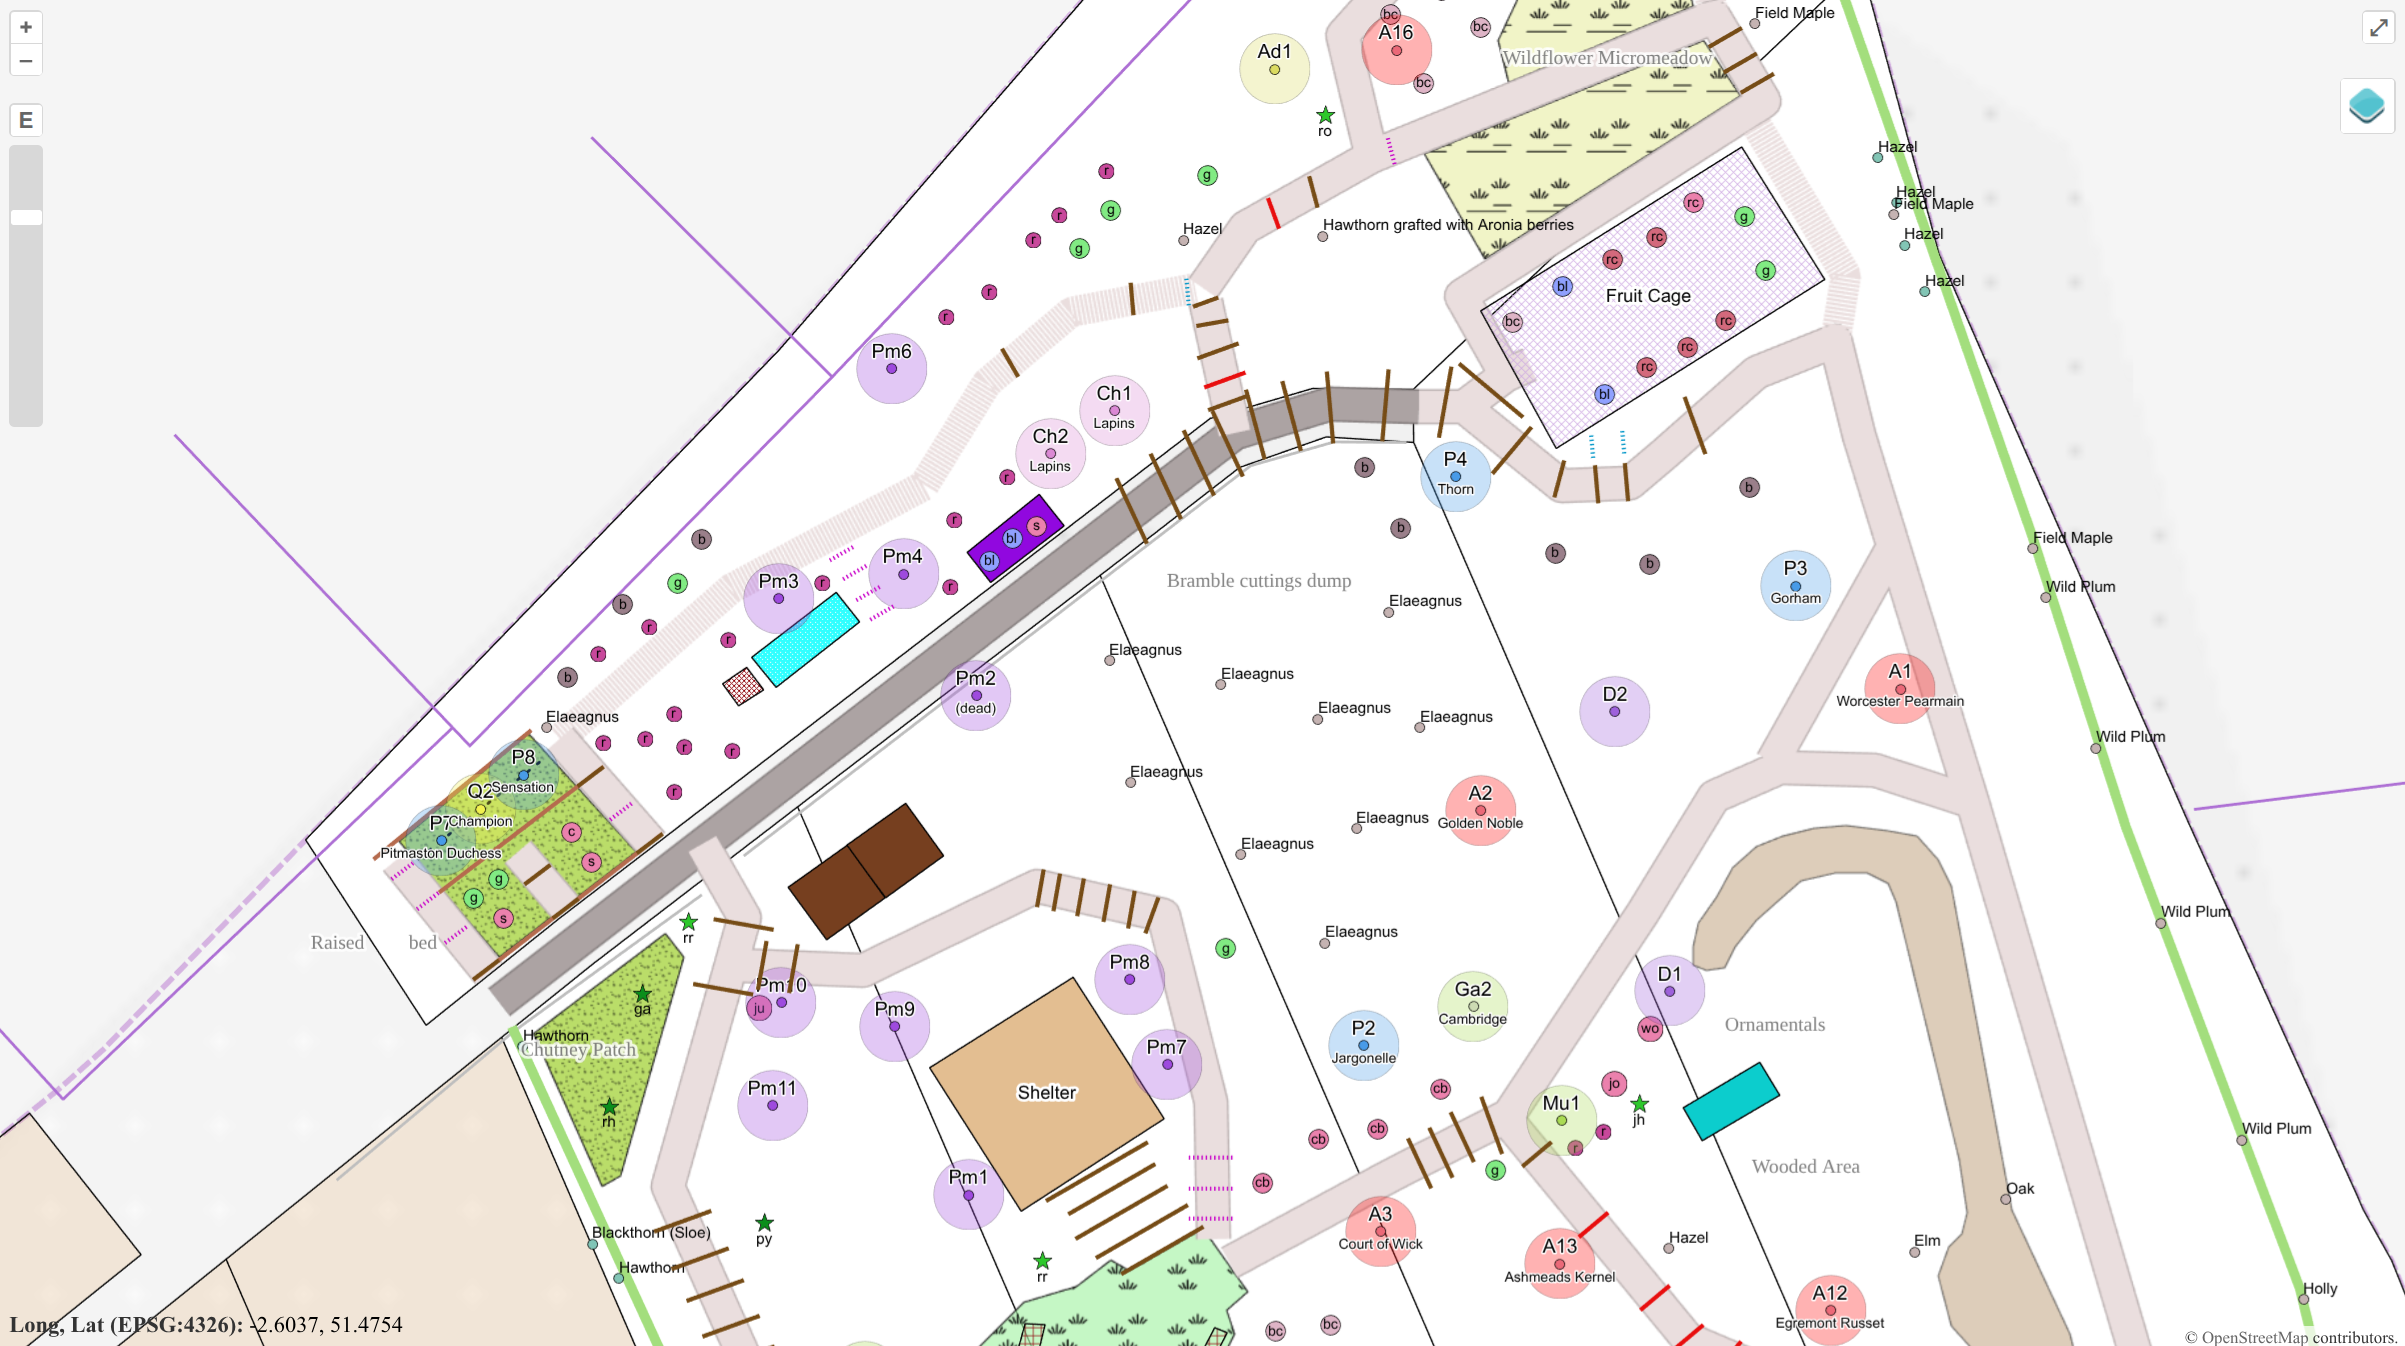
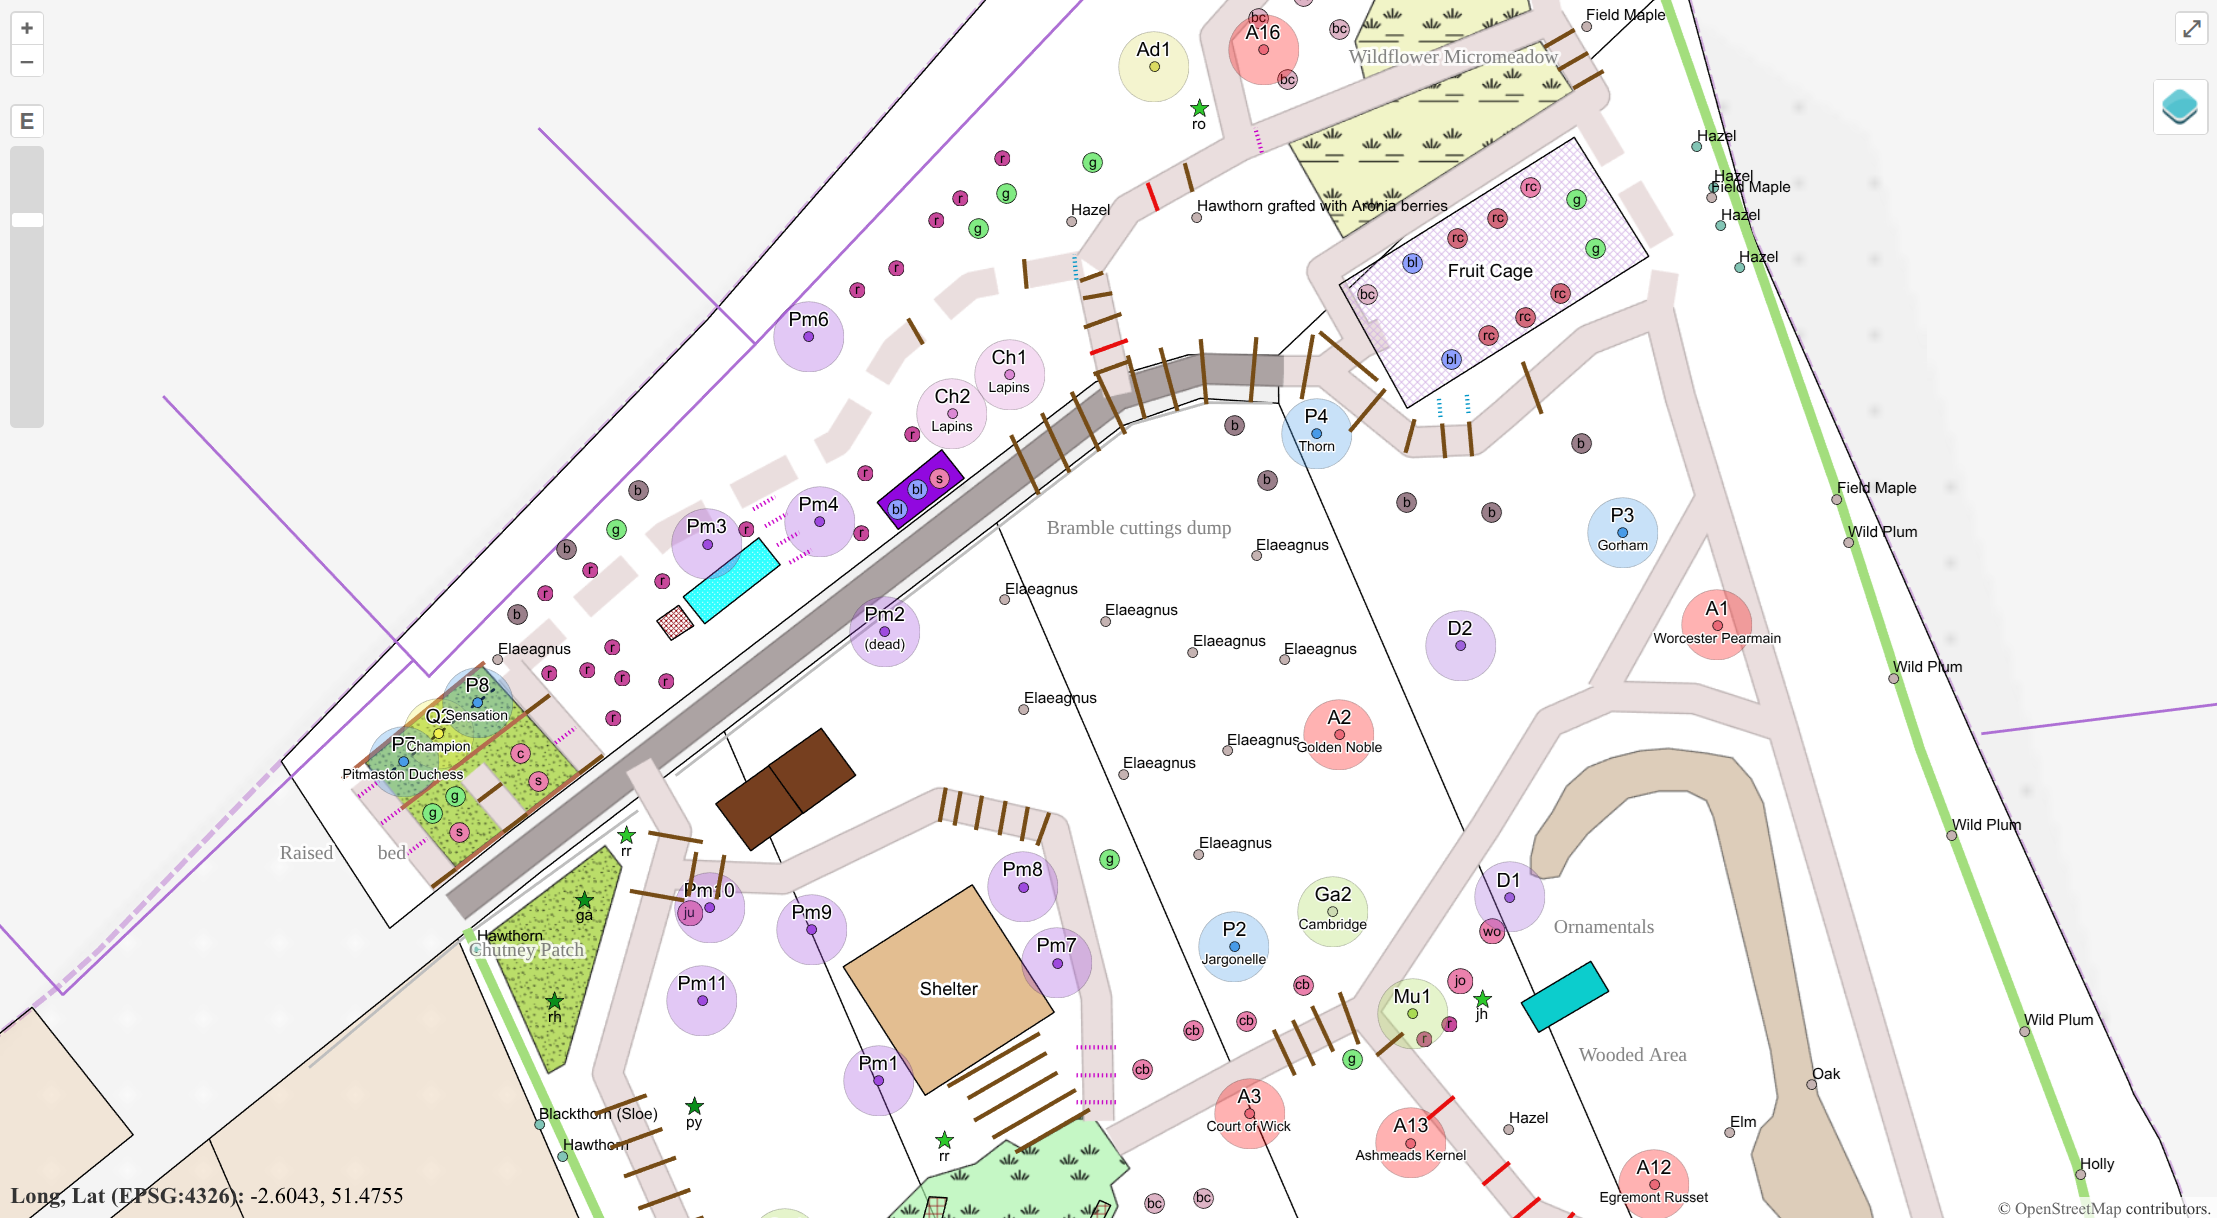
Updated after today's bugfix of SLDReader that removes one of line dasharray limitations.

diff --git a/examples/orchard site map/README.md b/examples/orchard site map/README.md
@@ -24,11 +24,11 @@ Source QGIS Project and source data files in folder [examples/orchard site map/]
 
 QGIS canvas screenshot:
 
-![QGIS canvas screenshot - Murtry Viaduct](screenshots/QGIS1.png)
+![QGIS canvas screenshot](screenshots/QGIS1.png)
 
 Web map screenshot:
 
-![web map screenshot - Murtry Viaduct](screenshots/webmap1.png)
+![web map screenshot](screenshots/webmap1.png)
 
 Key limitations of Web Map Exporter displayed in this example:
 - Layer 'Area type':
@@ -39,8 +39,9 @@ WARNING: replacing QGIS local SVG path with GitHub version in 'Area type.sld'
 - Layer 'Fruit trees':
     - crowns (the outer circles) different in size for 2 reasons: web map do not scale to map units as SLD will not allow mixing of units of measurement (map units and mm); data-defined values not exported from QGIS
     - label callouts (on far left) not supported in web map
+- Layer 'Steps', rule 'proposed':
+    - dotted line spacing too close due to QGIS bug that doesn't scale "stroke-dasharray" by "stroke-width" for predefined dash patterns
 - Layer 'Footpaths':
-    - dashed line spacing too close due to QGIS bug that doesn't scale "stroke-dasharray" by "stroke-width"
     - data-defined widths ignored in web map, but widths do scale to honour unit of measurement 'map units'
     - overlapping of different path types handled differently
 - Layer 'Soft fruits':

diff --git a/examples/D+S canal/README.md b/examples/D+S canal/README.md
@@ -38,8 +38,6 @@ Key limitations of Web Map Exporter displayed in this example:
 - Layer 'Probable path evidence':
     - dashed line spacing too close due to QGIS bug that doesn't scale "stroke-dasharray" by "stroke-width"
     - labels on line instead of above line (as specified in QGIS)
-- Layer 'OS 1st edition (SVG Fill)', rule 'Hachure':
-    - Hachure lines too close due to 2 SLD issues: QGIS bug that doesn't scale "stroke-dasharray" by "stroke-width", but more importantly rendering of "stroke-dasharray" by SLDReader not in specified units of measurement for this line symbolizer.
-- Layer 'OS 1st edition (SVG Fill)', rule 'March':
-    - currently don't export SVG files to webmap folder, though as a temporary workaround QGIS built-in SVGs like this landuse_swamp.svg are redirected to the GitHub QGIS files.
+- Layer 'OS 1st edition (SVG Fill)', rule 'Marsh':
+    - currently doesn't export SVG files to webmap folder, though as a temporary workaround QGIS built-in SVGs like this landuse_swamp.svg are redirected to the GitHub QGIS files.
 - (General): Labels overlap when zoomed out. Although you could set 'declutter' for layers in OpenLayers this would also hide overlapping features.

diff --git a/PROJECT_STATUS.md b/PROJECT_STATUS.md
@@ -32,7 +32,6 @@ For details on the fundamental SLD styling limitations of QGIS and the SLD Reade
 
 Current styling limitations of Web Map Exporter in addition to those listed in [ol-sld-styler Styling Limitations](https://github.com/richard-thomas/ol-sld-styler/blob/main/StylingLimitations.md) (or that are potentially fixable in this plugin) include (in order of priority to address):
 - **Dash pattern lines:** [FIXABLE] incorrect dot/dash spacing of predefined (but not custom) dash patterns as these are incorrectly not scaled by stroke width (QGIS bug)
-- **Dash pattern lines:** incorrect dot/dash spacing due to "units of measurement" in SLD "stroke-dasharray" spacing being ignored (bug in SLD Reader?)
 - **SVGs/PNG rendering:** [FIXABLE] on web map loading any symbology using SVGs or PNGs is currently not not rendered but appears when the map is first panned or zoomed (SLDReader requires a callback to be set up to fix this)
 - **PNG markers:** [FIXABLE?] PNGs (unless embedded) are not exported by QGIS in SLD
 - **Label word wrap:** Word wrap settings on labels not in web map
